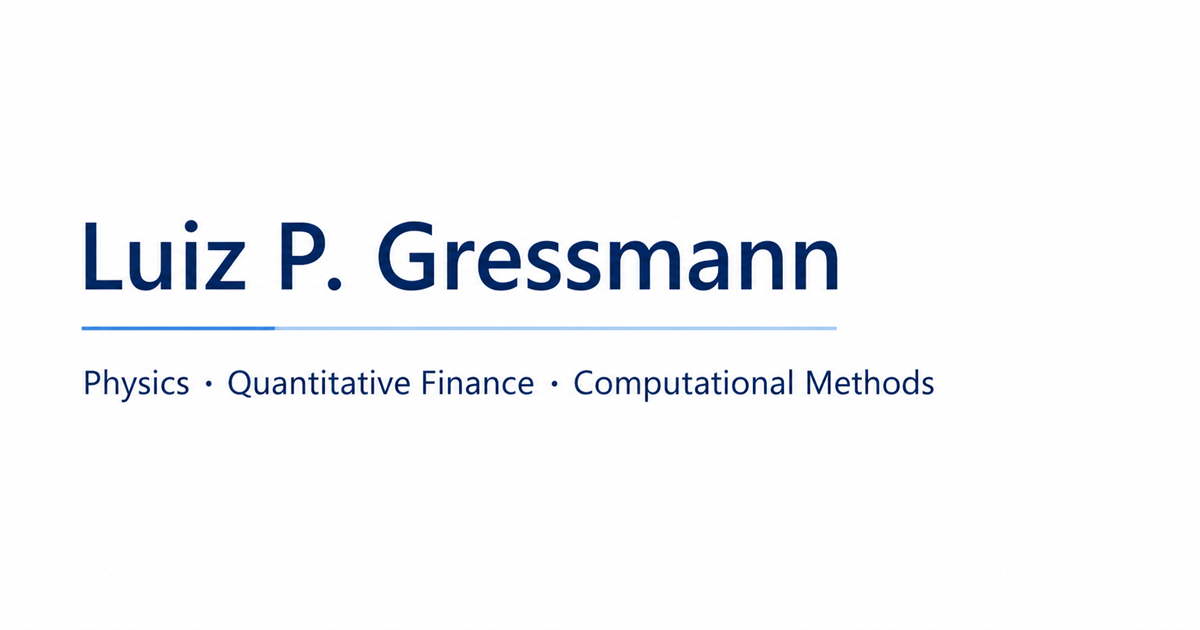
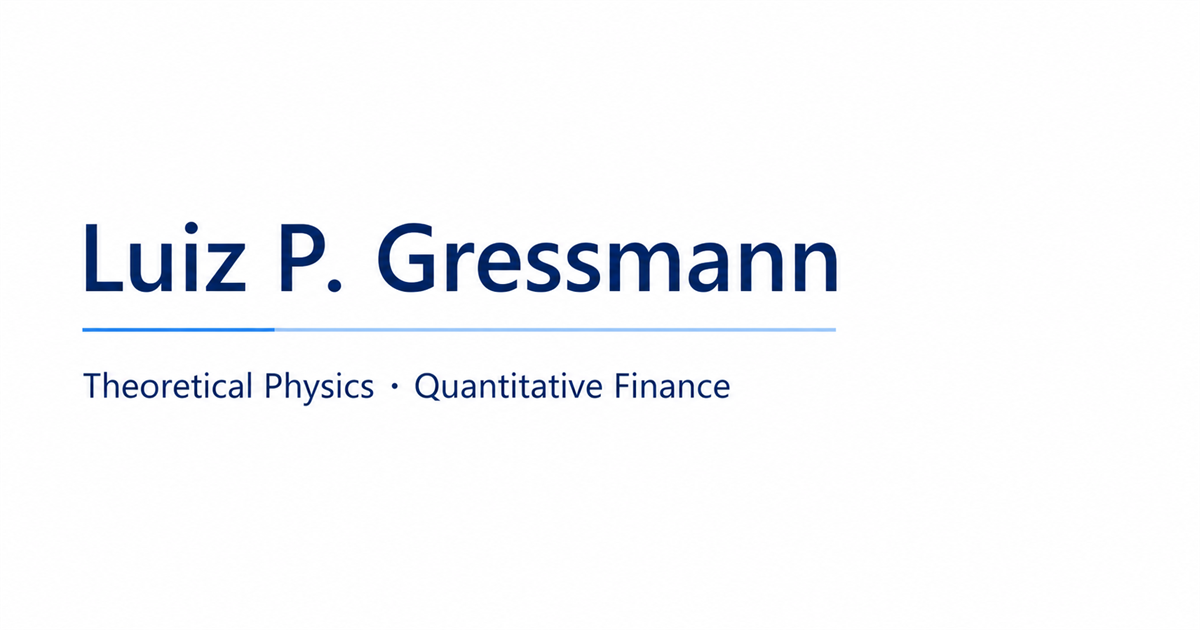
Refine social preview wording

diff --git a/projects.html b/projects.html
@@ -10,14 +10,14 @@
     <meta property="og:type" content="website">
     <meta property="og:url" content="https://luizgressmann.com/projects.html">
     <meta property="og:site_name" content="Luiz P. Gressmann">
-    <meta property="og:image" content="https://luizgressmann.com/images/social-preview.png">
+    <meta property="og:image" content="https://luizgressmann.com/images/social-preview.png?v=2">
     <meta property="og:image:type" content="image/png">
     <meta property="og:image:width" content="1200">
     <meta property="og:image:height" content="630">
-    <meta property="og:image:alt" content="Luiz P. Gressmann — Physics, Quantitative Finance and Computational Methods">
+    <meta property="og:image:alt" content="Luiz P. Gressmann — Theoretical Physics and Quantitative Finance">
     <meta name="twitter:card" content="summary_large_image">
-    <meta name="twitter:image" content="https://luizgressmann.com/images/social-preview.png">
-    <meta name="twitter:image:alt" content="Luiz P. Gressmann — Physics, Quantitative Finance and Computational Methods">
+    <meta name="twitter:image" content="https://luizgressmann.com/images/social-preview.png?v=2">
+    <meta name="twitter:image:alt" content="Luiz P. Gressmann — Theoretical Physics and Quantitative Finance">
     <meta name="theme-color" content="#FFFFFF">
     <title>projects | Luiz P. Gressmann</title>
     <link rel="icon" type="image/svg+xml" href="images/Logo.svg">

diff --git a/contact.html b/contact.html
@@ -10,14 +10,14 @@
     <meta property="og:type" content="website">
     <meta property="og:url" content="https://luizgressmann.com/contact.html">
     <meta property="og:site_name" content="Luiz P. Gressmann">
-    <meta property="og:image" content="https://luizgressmann.com/images/social-preview.png">
+    <meta property="og:image" content="https://luizgressmann.com/images/social-preview.png?v=2">
     <meta property="og:image:type" content="image/png">
     <meta property="og:image:width" content="1200">
     <meta property="og:image:height" content="630">
-    <meta property="og:image:alt" content="Luiz P. Gressmann — Physics, Quantitative Finance and Computational Methods">
+    <meta property="og:image:alt" content="Luiz P. Gressmann — Theoretical Physics and Quantitative Finance">
     <meta name="twitter:card" content="summary_large_image">
-    <meta name="twitter:image" content="https://luizgressmann.com/images/social-preview.png">
-    <meta name="twitter:image:alt" content="Luiz P. Gressmann — Physics, Quantitative Finance and Computational Methods">
+    <meta name="twitter:image" content="https://luizgressmann.com/images/social-preview.png?v=2">
+    <meta name="twitter:image:alt" content="Luiz P. Gressmann — Theoretical Physics and Quantitative Finance">
     <meta name="theme-color" content="#FFFFFF">
     <title>contact | Luiz P. Gressmann</title>
     <link rel="icon" type="image/svg+xml" href="images/Logo.svg">

diff --git a/projects/robust-dm-factor-allocation/index.html b/projects/robust-dm-factor-allocation/index.html
@@ -10,14 +10,14 @@
     <meta property="og:type" content="website">
     <meta property="og:url" content="https://luizgressmann.com/projects/robust-dm-factor-allocation/">
     <meta property="og:site_name" content="Luiz P. Gressmann">
-    <meta property="og:image" content="https://luizgressmann.com/images/social-preview.png">
+    <meta property="og:image" content="https://luizgressmann.com/images/social-preview.png?v=2">
     <meta property="og:image:type" content="image/png">
     <meta property="og:image:width" content="1200">
     <meta property="og:image:height" content="630">
-    <meta property="og:image:alt" content="Luiz P. Gressmann — Physics, Quantitative Finance and Computational Methods">
+    <meta property="og:image:alt" content="Luiz P. Gressmann — Theoretical Physics and Quantitative Finance">
     <meta name="twitter:card" content="summary_large_image">
-    <meta name="twitter:image" content="https://luizgressmann.com/images/social-preview.png">
-    <meta name="twitter:image:alt" content="Luiz P. Gressmann — Physics, Quantitative Finance and Computational Methods">
+    <meta name="twitter:image" content="https://luizgressmann.com/images/social-preview.png?v=2">
+    <meta name="twitter:image:alt" content="Luiz P. Gressmann — Theoretical Physics and Quantitative Finance">
     <meta name="theme-color" content="#FFFFFF">
     <title>Robust DM Factor Allocation | Luiz P. Gressmann</title>
     <script>

diff --git a/cv.html b/cv.html
@@ -10,14 +10,14 @@
     <meta property="og:type" content="website">
     <meta property="og:url" content="https://luizgressmann.com/cv.html">
     <meta property="og:site_name" content="Luiz P. Gressmann">
-    <meta property="og:image" content="https://luizgressmann.com/images/social-preview.png">
+    <meta property="og:image" content="https://luizgressmann.com/images/social-preview.png?v=2">
     <meta property="og:image:type" content="image/png">
     <meta property="og:image:width" content="1200">
     <meta property="og:image:height" content="630">
-    <meta property="og:image:alt" content="Luiz P. Gressmann — Physics, Quantitative Finance and Computational Methods">
+    <meta property="og:image:alt" content="Luiz P. Gressmann — Theoretical Physics and Quantitative Finance">
     <meta name="twitter:card" content="summary_large_image">
-    <meta name="twitter:image" content="https://luizgressmann.com/images/social-preview.png">
-    <meta name="twitter:image:alt" content="Luiz P. Gressmann — Physics, Quantitative Finance and Computational Methods">
+    <meta name="twitter:image" content="https://luizgressmann.com/images/social-preview.png?v=2">
+    <meta name="twitter:image:alt" content="Luiz P. Gressmann — Theoretical Physics and Quantitative Finance">
     <meta name="theme-color" content="#FFFFFF">
     <title>cv | Luiz P. Gressmann</title>
     <link rel="icon" type="image/svg+xml" href="images/Logo.svg">

diff --git a/index.html b/index.html
@@ -10,14 +10,14 @@
     <meta property="og:type" content="website">
     <meta property="og:url" content="https://luizgressmann.com/">
     <meta property="og:site_name" content="Luiz P. Gressmann">
-    <meta property="og:image" content="https://luizgressmann.com/images/social-preview.png">
+    <meta property="og:image" content="https://luizgressmann.com/images/social-preview.png?v=2">
     <meta property="og:image:type" content="image/png">
     <meta property="og:image:width" content="1200">
     <meta property="og:image:height" content="630">
-    <meta property="og:image:alt" content="Luiz P. Gressmann — Physics, Quantitative Finance and Computational Methods">
+    <meta property="og:image:alt" content="Luiz P. Gressmann — Theoretical Physics and Quantitative Finance">
     <meta name="twitter:card" content="summary_large_image">
-    <meta name="twitter:image" content="https://luizgressmann.com/images/social-preview.png">
-    <meta name="twitter:image:alt" content="Luiz P. Gressmann — Physics, Quantitative Finance and Computational Methods">
+    <meta name="twitter:image" content="https://luizgressmann.com/images/social-preview.png?v=2">
+    <meta name="twitter:image:alt" content="Luiz P. Gressmann — Theoretical Physics and Quantitative Finance">
     <meta name="theme-color" content="#FFFFFF">
     <title>Luiz P. Gressmann</title>
     <link rel="icon" type="image/svg+xml" href="images/Logo.svg">
